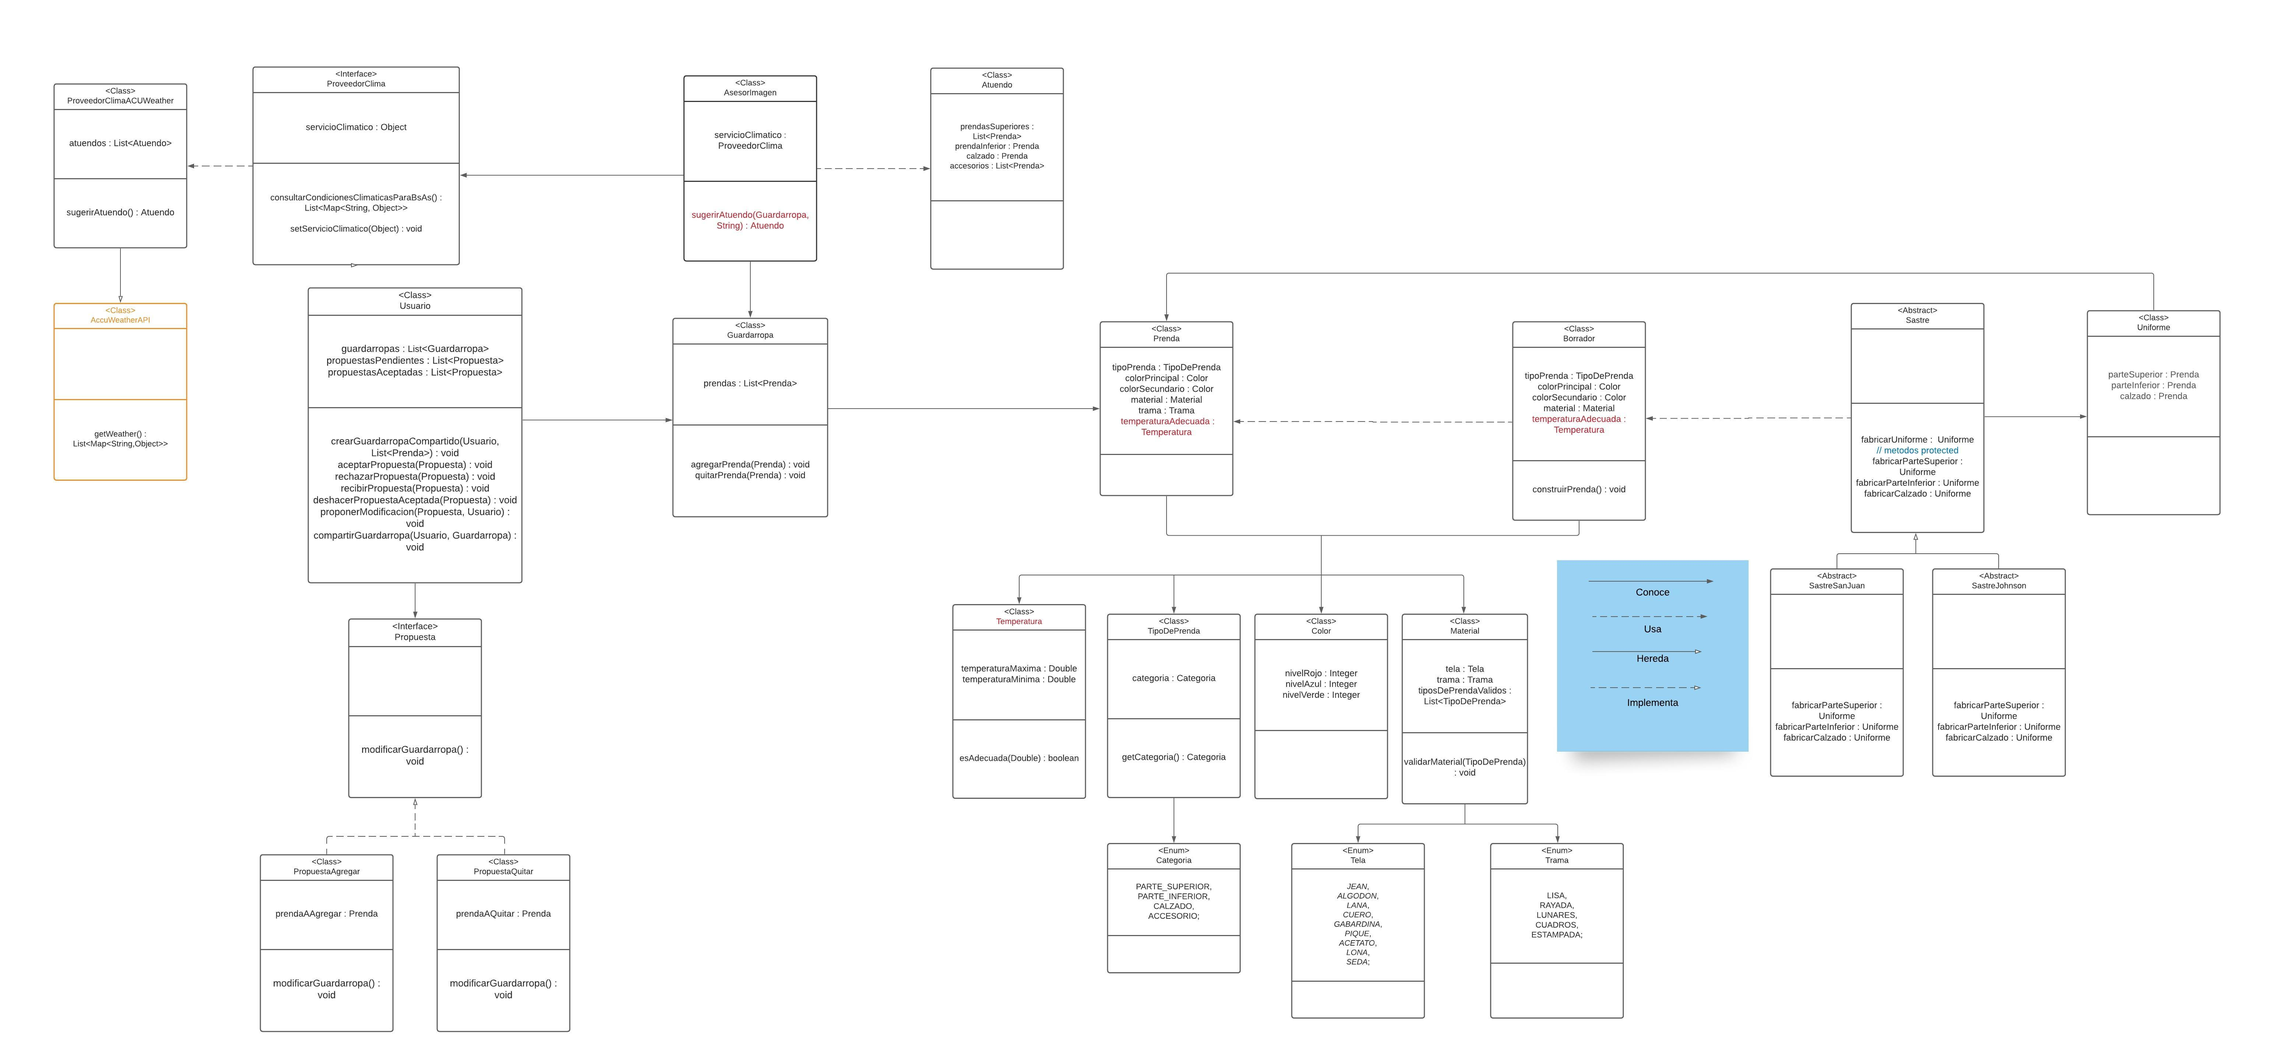
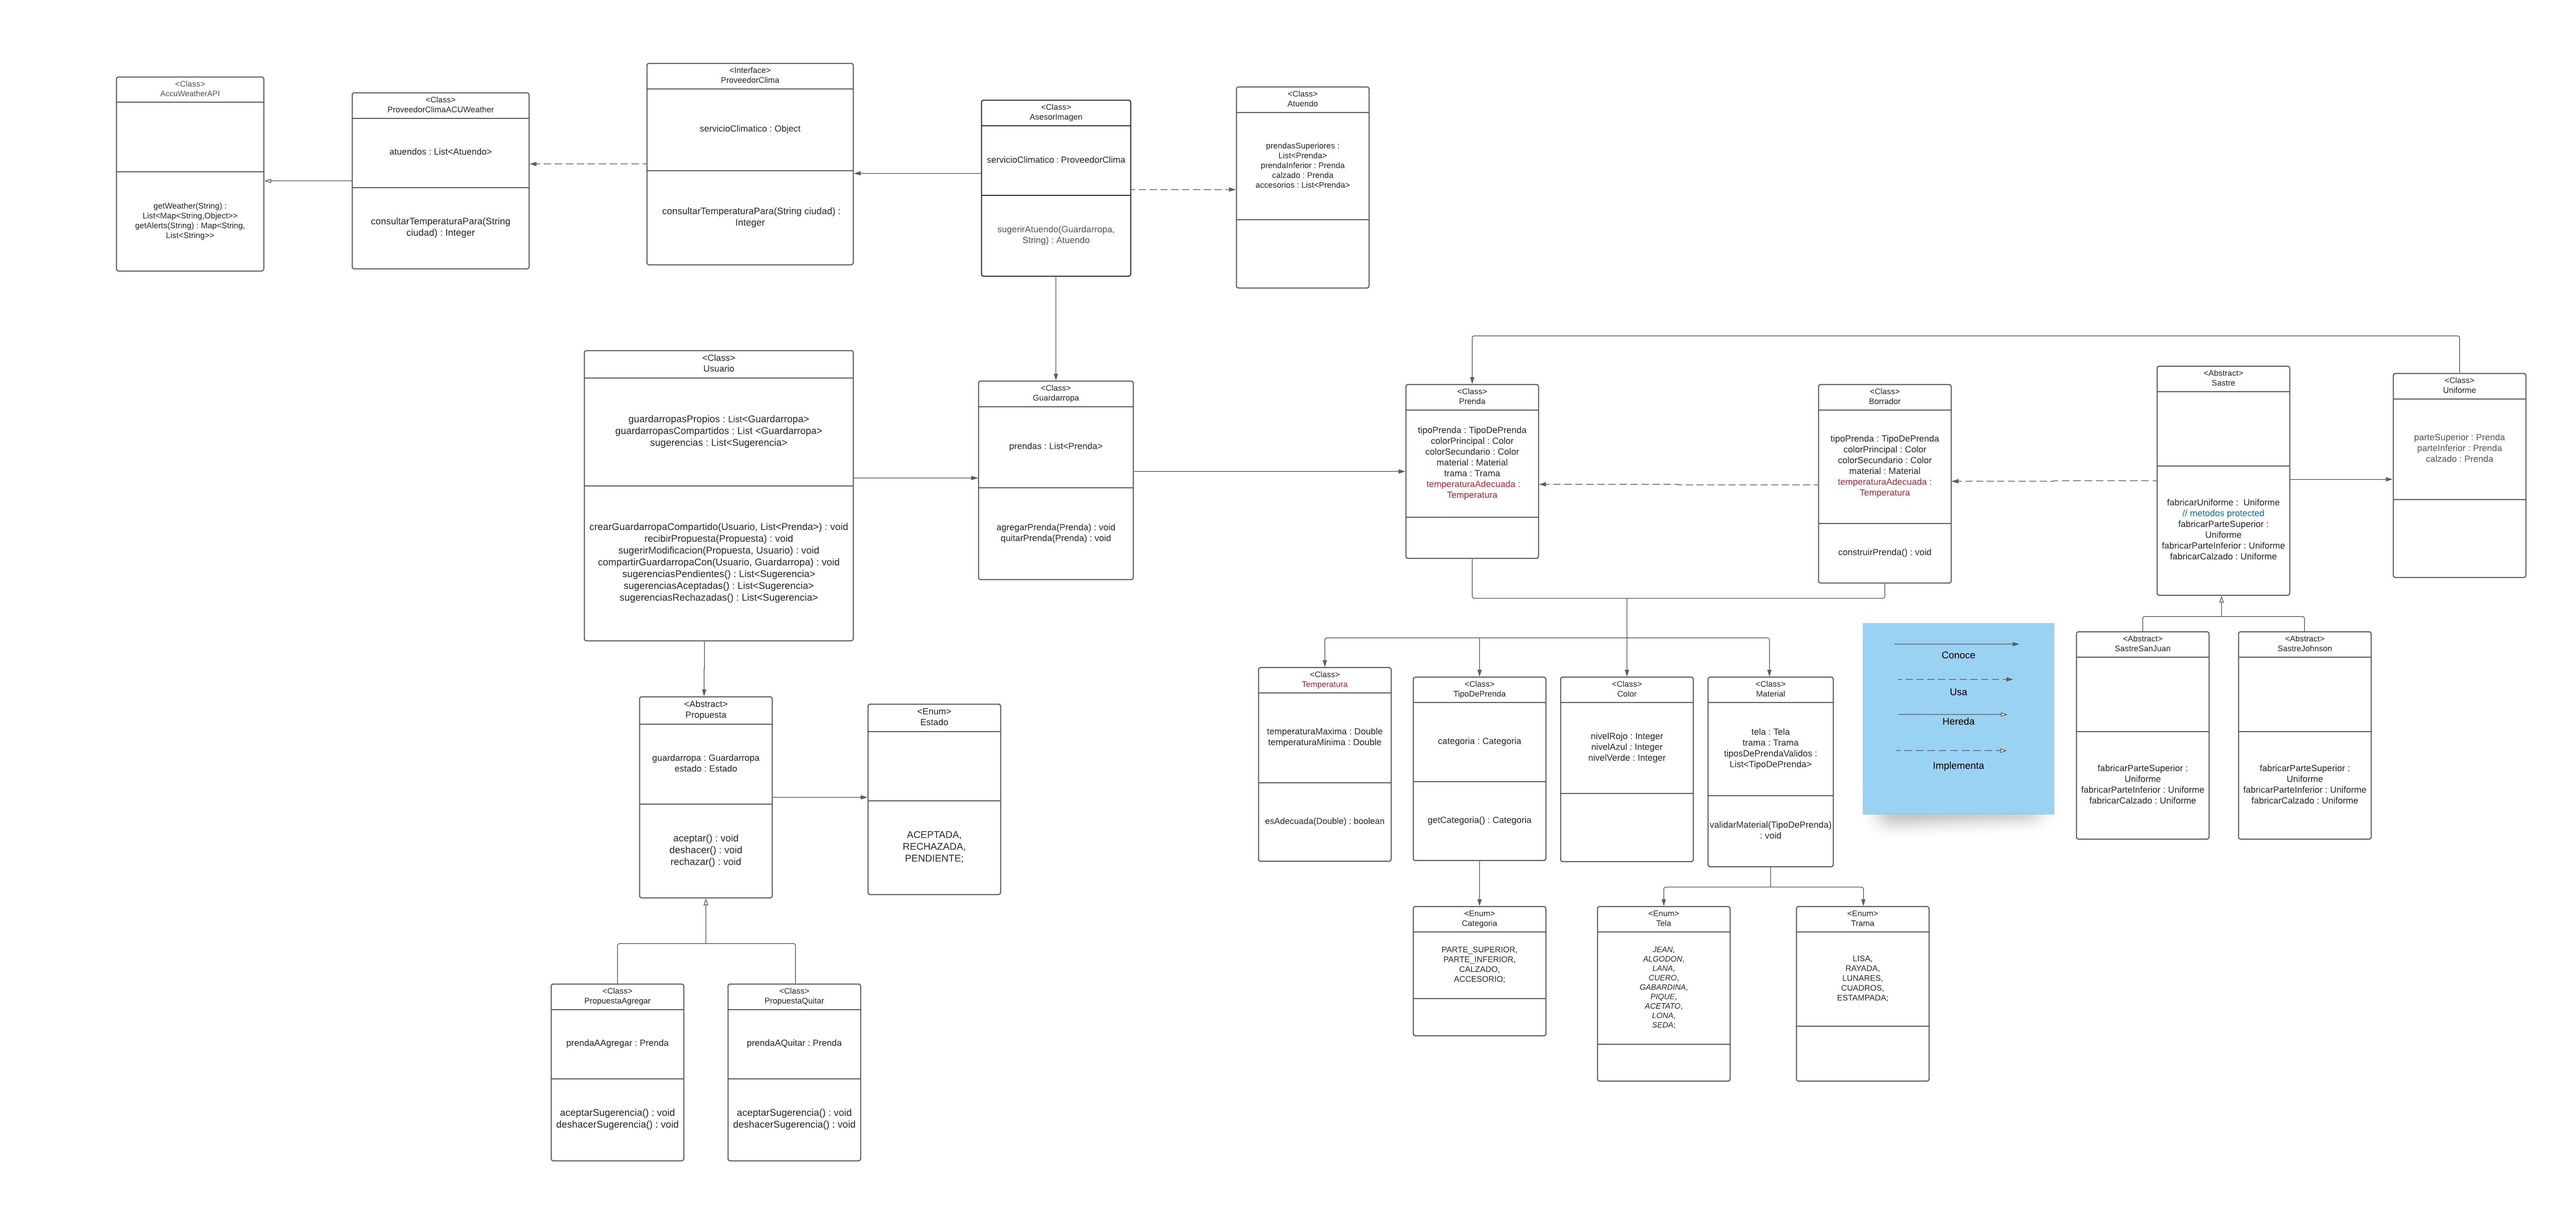
Mejoro quinta iteracion

diff --git a/src/main/java/domain/Usuario.java b/src/main/java/domain/Usuario.java
@@ -2,15 +2,17 @@ package domain;
 
 import domain.Exceptions.NoTieneAccesoAGuardarropa;
 import domain.Prenda.Prenda;
-import domain.Propuestas.Propuesta;
+import domain.Sugerencias.Estado;
+import domain.Sugerencias.Sugerencia;
 
+import java.util.ArrayList;
 import java.util.List;
+import java.util.stream.Collectors;
 
 public class Usuario {
-  private List<Guardarropa> guardarropasPropios;
-  private List<Guardarropa> guardarropasCompartidos;
-  private List<Propuesta> propuestasPendientes;
-  private List<Propuesta> propuestasAceptadas;
+  private List<Guardarropa> guardarropasPropios = new ArrayList<>();
+  private List<Guardarropa> guardarropasCompartidos = new ArrayList<>();
+  private List<Sugerencia> sugerencias = new ArrayList<>();
 
   public void crearGuardarropaCompartido(Usuario usuario, List<Prenda> prendas) {
     Guardarropa nuevoGuardarropa = new Guardarropa(prendas);
@@ -37,33 +39,36 @@ public class Usuario {
     guardarropasCompartidos.add(guardarropa);
   }
 
-  public void recibirPropuesta(Propuesta propuesta) {
-    propuestasPendientes.add(propuesta);
+  public List<Sugerencia> getSugerenciasPendientes() {
+    return sugerencias.stream().filter(sugerencia -> sugerencia.getEstado().equals(Estado.PENDIENTE))
+        .collect(Collectors.toList());
   }
 
-  public void quitarPropuesta(Propuesta propuesta) {
-    propuestasPendientes.remove(propuesta);
+  public List<Sugerencia> getSugerenciasAceptadas() {
+    return sugerencias.stream().filter(sugerencia -> sugerencia.getEstado().equals(Estado.ACEPTADA))
+        .collect(Collectors.toList());
   }
 
-  public void deshacerPropuestaAceptada(Propuesta propuesta) {
-    propuestasAceptadas.remove(propuesta);
+  public List<Sugerencia> getSugerenciasRechazadas() {
+    return sugerencias.stream().filter(sugerencia -> sugerencia.getEstado().equals(Estado.RECHAZADA))
+        .collect(Collectors.toList());
   }
 
-  public void aceptarPropuesta(Propuesta propuesta) {
-    this.quitarPropuesta(propuesta);
-    propuestasAceptadas.add(propuesta);
+  public void recibirPropuesta(Sugerencia sugerencia) {
+    sugerencias.add(sugerencia);
   }
 
-  public void proponerModificacion(Propuesta propuesta, Usuario usuario) {
-    if(comparteGuardarropaCon(usuario)) {
-      usuario.recibirPropuesta(propuesta);
+  public void sugerirModificacion(Sugerencia sugerencia, Usuario usuario) {
+    if(guardarropasCompartidosCon(usuario).contains(sugerencia.getGuardarropa())) {
+      usuario.recibirPropuesta(sugerencia);
     } else {
       throw new NoTieneAccesoAGuardarropa("No tiene acceso a este guardarropa!");
     }
   }
 
-  public Boolean comparteGuardarropaCon(Usuario usuario) {
-    // TODO: Falta validar que la propuesta sea sobre un guardarropa que compartan ambos usuarios?
-    return guardarropasCompartidos.stream().anyMatch(guardarropa -> usuario.getGuardarropasCompartidos().contains(guardarropa));
+  public List<Guardarropa> guardarropasCompartidosCon(Usuario usuario) {
+    return guardarropasCompartidos.stream()
+        .filter(guardarropa -> usuario.getGuardarropasCompartidos().contains(guardarropa))
+        .collect(Collectors.toList());
   }
 }

diff --git a/src/main/java/domain/Sugerencias/Sugerencia.java b/src/main/java/domain/Sugerencias/Sugerencia.java
@@ -1,0 +1,42 @@
+package domain.Sugerencias;
+
+import domain.Guardarropa;
+
+// Command
+public abstract class Sugerencia {
+  public Guardarropa guardarropa;
+  public Estado estado;
+
+  public Sugerencia(Guardarropa guardarropa) {
+    this.guardarropa = guardarropa;
+    this.estado = Estado.PENDIENTE;
+  }
+
+  public Guardarropa getGuardarropa() { return guardarropa; }
+
+  public Estado getEstado() {
+    return estado;
+  }
+
+  public void setEstado(Estado estado) {
+    this.estado = estado;
+  }
+
+  public void aceptar() {
+    this.setEstado(Estado.ACEPTADA);
+    this.aceptarSugerencia();
+  }
+
+  public void deshacer() {
+    this.rechazar(); // TODO: Preguntar si al deshacer se rechaza o se pone como pendiente de nuevo
+    this.deshacerSugerencia();
+  }
+
+  public void rechazar() {
+    setEstado(Estado.RECHAZADA);
+  }
+
+  public abstract void aceptarSugerencia();
+
+  public abstract void deshacerSugerencia();
+}

diff --git a/src/main/java/domain/Sugerencias/SugerenciaAgregar.java b/src/main/java/domain/Sugerencias/SugerenciaAgregar.java
@@ -1,0 +1,22 @@
+package domain.Sugerencias;
+
+import domain.Guardarropa;
+import domain.Prenda.Prenda;
+
+public class SugerenciaAgregar extends Sugerencia {
+  private Prenda prendaAAgregar;
+
+  public SugerenciaAgregar(Guardarropa guardarropa, Prenda prendaAAgregar) {
+    super(guardarropa);
+    this.prendaAAgregar = prendaAAgregar;
+  }
+
+  public void aceptarSugerencia() {
+    guardarropa.agregarPrenda(prendaAAgregar);
+  }
+
+  public void deshacerSugerencia() {
+    guardarropa.quitarPrenda(prendaAAgregar);
+  }
+
+}

diff --git a/src/main/java/domain/Sugerencias/SugerenciaQuitar.java b/src/main/java/domain/Sugerencias/SugerenciaQuitar.java
@@ -1,0 +1,22 @@
+package domain.Sugerencias;
+
+import domain.Guardarropa;
+import domain.Prenda.Prenda;
+
+public class SugerenciaQuitar extends Sugerencia {
+  private Prenda prendaAQuitar;
+
+  public SugerenciaQuitar(Guardarropa guardarropa, Prenda prendaAQuitar) {
+    super(guardarropa);
+    this.prendaAQuitar = prendaAQuitar;
+  }
+
+  public void aceptarSugerencia() {
+    guardarropa.quitarPrenda(prendaAQuitar);
+  }
+
+  public void deshacerSugerencia() {
+    guardarropa.agregarPrenda(prendaAQuitar);
+  }
+
+}

diff --git a/src/main/java/domain/Prenda/TipoDePrenda.java b/src/main/java/domain/Prenda/TipoDePrenda.java
@@ -1,7 +1,7 @@
 package domain.Prenda;
 
-import domain.constants.Categoria;
-import domain.constants.Tela;
+import domain.Constants.Categoria;
+import domain.Constants.Tela;
 import domain.Exceptions.MaterialNoAptoParaTipoDePrenda;
 
 import java.util.Arrays;

diff --git a/src/main/java/domain/Guardarropa.java b/src/main/java/domain/Guardarropa.java
@@ -1,7 +1,7 @@
 package domain;
 
 import domain.Prenda.Prenda;
-import domain.constants.Categoria;
+import domain.Constants.Categoria;
 
 import java.util.List;
 import java.util.stream.Collectors;

diff --git a/src/main/java/domain/Prenda/Material.java b/src/main/java/domain/Prenda/Material.java
@@ -1,7 +1,7 @@
 package domain.Prenda;
 
-import domain.constants.Tela;
-import domain.constants.Trama;
+import domain.Constants.Tela;
+import domain.Constants.Trama;
 
 import java.util.Objects;
 

diff --git a/src/main/java/domain/Uniformes/SastreSanJuan.java b/src/main/java/domain/Uniformes/SastreSanJuan.java
@@ -1,7 +1,7 @@
 package domain.Uniformes;
 
 import domain.Prenda.*;
-import domain.constants.Tela;
+import domain.Constants.Tela;
 
 public class SastreSanJuan extends Sastre {
   @Override

diff --git a/src/main/java/domain/Uniformes/SastreJohnson.java b/src/main/java/domain/Uniformes/SastreJohnson.java
@@ -1,7 +1,7 @@
 package domain.Uniformes;
 
 import domain.Prenda.*;
-import domain.constants.Tela;
+import domain.Constants.Tela;
 
 public class SastreJohnson extends Sastre {
 

diff --git a/src/main/java/domain/Constants/Categoria.java b/src/main/java/domain/Constants/Categoria.java
@@ -1,0 +1,8 @@
+package domain.Constants;
+
+public enum Categoria {
+  PARTE_SUPERIOR,
+  PARTE_INFERIOR,
+  CALZADO,
+  ACCESORIO;
+}

diff --git a/src/main/java/domain/Constants/Trama.java b/src/main/java/domain/Constants/Trama.java
@@ -1,0 +1,9 @@
+package domain.Constants;
+
+public enum Trama {
+  LISA,
+  RAYADA,
+  LUNARES,
+  CUADROS,
+  ESTAMPADO;
+}

diff --git a/src/main/java/domain/Sugerencias/Estado.java b/src/main/java/domain/Sugerencias/Estado.java
@@ -1,0 +1,7 @@
+package domain.Sugerencias;
+
+public enum Estado {
+  ACEPTADA,
+  RECHAZADA,
+  PENDIENTE;
+}
